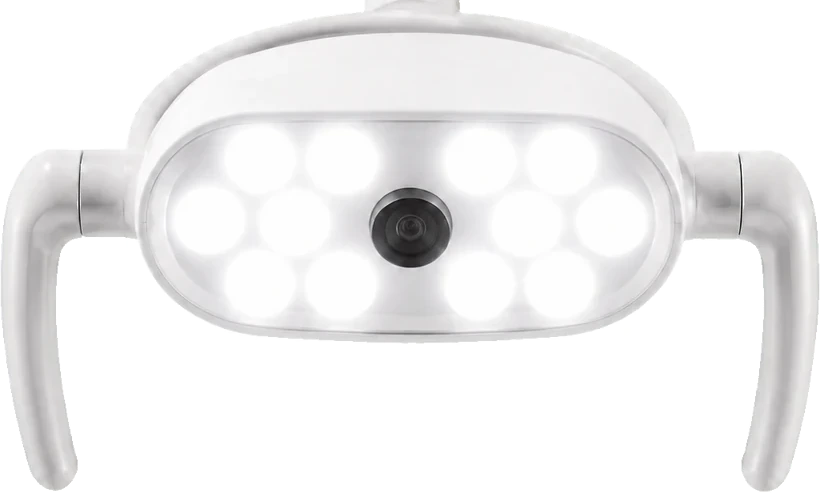
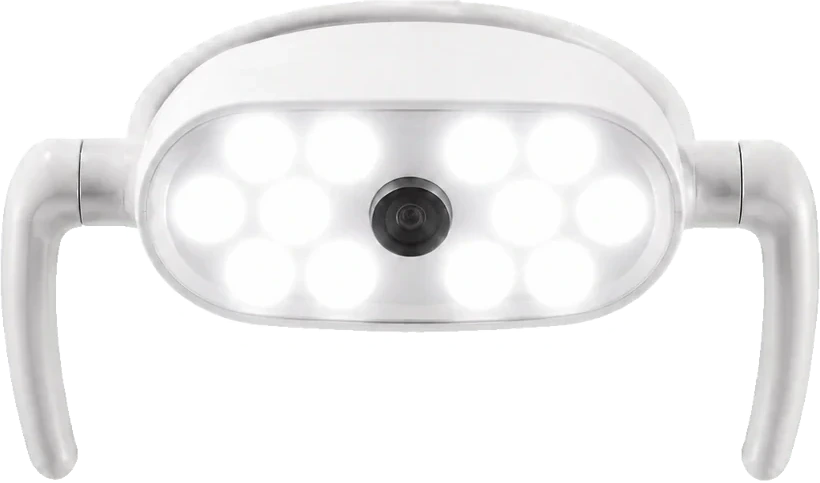
Игры: зона инструментов вдвое шире, порог 80 % с дозаполнением, примагничивание в лоток
Композит: радиус кисти 15 -> 30, зона отклика лампы и полировщика вдвое шире,
этап засчитывается с 80 %, остаток доводится заливкой. Лоток: инструмент
подрастает при захвате и сам встаёт в свободное место при отпускании рядом.
Лампа обрезана по штативу. Вступление: корпус растворяется до засвета,
дальше свет доводят градиенты — крупные перерисовки растра убраны.

Claude-Session: https://claude.ai/code/session_01Ui7H6U1Pji7C9dD6chSZKK

diff --git a/main.js b/main.js
@@ -142,7 +142,11 @@
          0.93–1.00  растворение, дальше первый экран
        Лампа увеличивается вокруг собственного центра и никуда не смещается.        */
     gsap.set(stage, { scale: 1, transformOrigin: '50% 50%' });
-    gsap.set(glow,  { xPercent: -50, yPercent: -50, scale: .55, opacity: 0 });
+    /* Ореол лежит внутри лампы, поэтому его собственный масштаб перемножался
+       с масштабом наезда — к концу выходила поверхность в десятки тысяч
+       пикселей, которую браузер растрировал заново каждый кадр. Рост ореолу
+       теперь даёт сама лампа, ему остаётся только яркость. */
+    gsap.set(glow,  { xPercent: -50, yPercent: -50, scale: 1, opacity: 0 });
     gsap.set(bloom, { xPercent: -50, yPercent: -50, scale: .18, opacity: 0 });
     gsap.set(on,    { opacity: 0 });
     gsap.set(flash, { opacity: 0 });
@@ -153,21 +157,25 @@
 
     const tl = gsap.timeline({ paused: true, defaults: { ease: 'none' } });
     tl.to(on,     { opacity: 1, duration: .07, ease: 'power1.inOut' }, 0)
-      .to(glow,   { opacity: .32, scale: .8, duration: .07, ease: 'power1.inOut' }, 0)
+      .to(glow,   { opacity: .32, duration: .07, ease: 'power1.inOut' }, 0)
       .to(slogan, { opacity: 0, y: -22, duration: .06, ease: 'power1.in' }, 0)
       .to(hint,   { opacity: 0, duration: .04, ease: 'power1.in' }, 0)
       /* приближение: свет расходится по кадру, а не только по корпусу лампы */
       .to(stage,  { scale: 1.45, duration: .31, ease: 'power1.inOut' }, .07)
-      .to(glow,   { opacity: .68, scale: 1.5, duration: .31, ease: 'power1.inOut' }, .07)
+      .to(glow,   { opacity: .68, duration: .31, ease: 'power1.inOut' }, .07)
       .to(bloom,  { opacity: .45, scale: .55, duration: .31, ease: 'power1.inOut' }, .07)
       .to(stage,  { scale: 2.8, duration: .14, ease: 'power1.in' }, .38)
-      .to(glow,   { opacity: 1, scale: 3.1, duration: .14, ease: 'power1.in' }, .38)
+      .to(glow,   { opacity: 1, duration: .14, ease: 'power1.in' }, .38)
       .to(bloom,  { opacity: .96, scale: 1.35, duration: .14, ease: 'power1.in' }, .38)
-      .to(stage,  { scale: 6.5, duration: .12, ease: 'power2.in' }, .52)
-      /* корпус растворяется в свете, иначе на весь кадр расползается серый пластик */
-      .to(stage,  { opacity: 0, duration: .09, ease: 'power1.in' }, .49)
-      .to(bloom,  { scale: 2.4, duration: .12, ease: 'power2.in' }, .52)
-      .to(flash,  { opacity: 1, duration: .06, ease: 'power2.in' }, .52)
+      /* Самый тяжёлый участок шкалы. Держим его коротким и заканчиваем всё
+         разом к 0.575: дальше кадр полностью залит белым и лампу с ореолом
+         снимает с отрисовки класс is-blank. */
+      /* Корпус растворяется в свете ДО того, как кадр зальёт белым: дальше
+         увеличивать растровую картинку не нужно — свет доводят градиенты,
+         которые рисуются несравнимо дешевле. */
+      .to(stage,  { opacity: 0, duration: .06, ease: 'power1.in' }, .46)
+      .to(bloom,  { scale: 2.2, duration: .07, ease: 'power2.in' }, .50)
+      .to(flash,  { opacity: 1, duration: .06, ease: 'power2.in' }, .50)
       /* слова: шире амплитуда, спокойнее выход */
       .to(words,  { opacity: 1, y: 0, scale: 1, duration: .075, stagger: .028, ease: 'power2.out' }, .53)
       .to(words,  { opacity: 0, y: -40, scale: .94, duration: .075, stagger: .028, ease: 'power2.in' }, .80)
@@ -184,7 +192,8 @@
       const open = pos > .985;
       box.classList.toggle('is-moving', pos > .004);
       /* кадр залит белым — лампу и сияние снимаем с отрисовки совсем */
-      box.classList.toggle('is-blank', pos > .60);
+      box.classList.toggle('is-lit', pos > .10);
+      box.classList.toggle('is-blank', pos > .525);
       html.classList.toggle('ready', open);
       if (hdrEl) hdrEl.classList.toggle('hdr--ghost', !open);
       box.style.pointerEvents = open ? 'none' : '';
@@ -452,6 +461,8 @@
     const ec = etchC.getContext('2d', { willReadFrequently: true });
     const pc = paintC.getContext('2d', { willReadFrequently: true });
 
+    /* сколько нужно покрыть, чтобы этап засчитался; дальше доводим сами */
+    const GOAL = .80;
     let stage = 1, W = 0, H = 0, done = 0, seen = 0, last = null, ops = 0, busy = false;
     let ptsEdge = [], ptsFull = [], imgEdge = null, imgFull = null;
     const bits = makeParticles($('#bits'), stageEl);
@@ -521,26 +532,57 @@
     }
     /* показываем прогресс, но НИКОГДА не переключаем этап во время мазка */
     function readout() {
-      if (stage === 1) say.textContent = 'Подготовка: ' + pc100(cover(ec, ptsEdge) / .82) + ' %';
-      else if (stage === 2) say.textContent = 'Промывание: ' + pc100(1 - cover(ec, ptsEdge) / .82) + ' %';
-      else if (stage === 3) { const v = cover(pc, ptsFull) / .99;
+      if (stage === 1) say.textContent = 'Подготовка: ' + pc100(cover(ec, ptsEdge) / GOAL) + ' %';
+      else if (stage === 2) say.textContent = 'Промывание: ' + pc100((1 - cover(ec, ptsEdge)) / GOAL) + ' %';
+      else if (stage === 3) { const v = cover(pc, ptsFull) / GOAL;
         say.textContent = 'Заполнено ' + pc100(v) + ' %' + (v >= 1 ? ' — теперь лампа' : ''); }
     }
     const pc100 = v => Math.round(Math.max(0, Math.min(1, v)) * 100);
+
+    /* Дозаполнение: как только пройдено 80 %, остаток доводим сами — ровно и
+       без выискивания последних пикселей. Кадр за кадром возвращаем снимок
+       холста и поверх кладём заливку с растущей прозрачностью, поэтому переход
+       идёт плавно и не зависит от частоты кадров. */
+    function flood(ctx, color, erase, cb) {
+      if (!W) { cb && cb(); return; }
+      busy = true; last = null;
+      const snap = document.createElement('canvas'); snap.width = W; snap.height = H;
+      snap.getContext('2d').drawImage(ctx.canvas, 0, 0);
+      gsap.to({ v: 0 }, { v: 1, duration: .5, ease: 'power2.inOut',
+        onUpdate() {
+          const v = this.targets()[0].v;
+          ctx.clearRect(0, 0, W, H); ctx.drawImage(snap, 0, 0);
+          ctx.save();
+          ctx.globalAlpha = v; ctx.globalCompositeOperation = erase ? 'destination-out' : 'source-over';
+          ctx.fillStyle = color; ctx.fillRect(0, 0, W, H);
+          ctx.restore();
+        },
+        onComplete() {
+          ctx.clearRect(0, 0, W, H);
+          if (!erase) { ctx.globalCompositeOperation = 'source-over'; ctx.fillStyle = color; ctx.fillRect(0, 0, W, H); }
+          busy = false; cb && cb();
+        } });
+    }
     /* переключаем этап только когда инструмент отпущен */
     function finishStroke() {
       if (busy) return;
-      if (stage === 1 && cover(ec, ptsEdge) > .82) setStage(2);
-      else if (stage === 2 && cover(ec, ptsEdge) < .12) setStage(3);
-      else if (stage === 3 && cover(pc, ptsFull) >= .99) setStage(4);
-      else readout();
+      if (stage === 1 && cover(ec, ptsEdge) >= GOAL) {
+        say.textContent = 'Край пройден — гель ложится ровным слоем.';
+        flood(ec, '#3FC3DC', false, () => setStage(2));
+      } else if (stage === 2 && cover(ec, ptsEdge) <= 1 - GOAL) {
+        say.textContent = 'Гель смывается начисто.';
+        flood(ec, '#000', true, () => setStage(3));
+      } else if (stage === 3 && cover(pc, ptsFull) >= GOAL) {
+        say.textContent = 'Дефект закрыт — композит расходится до краёв.';
+        flood(pc, '#EFA0C6', false, () => setStage(4));
+      } else readout();
     }
 
     /* ---- этапы ---- */
     const TXT = {
       1: 'Этап 1. Подготовка: синим шприцом пройдите по краю дефекта.',
       2: 'Этап 2. Промывание: смойте гель водой из пистолета.',
-      3: 'Этап 3. Композит: заполните дефект целиком, до 100 %.',
+      3: 'Этап 3. Композит: закрывайте дефект — с 80 % материал разойдётся до краёв сам.',
       4: 'Этап 4. Свет: поднесите лампу к зубу и держите, пока полоса не заполнится.',
       5: 'Этап 5. Полировка: пройдите щёткой по зубу — реставрация заблестит.'
     };
@@ -598,7 +640,7 @@
     function tipNear(t) {
       const r = t.el.getBoundingClientRect(), b = box.getBoundingClientRect();
       const x = r.left + r.width * t.tip[0], y = r.top + r.height * t.tip[1];
-      const pad = b.width * .18;
+      const pad = b.width * .36;
       return x > b.left - pad && x < b.right + pad && y > b.top - pad && y < b.bottom + pad;
     }
     function loop(t) {
@@ -613,7 +655,7 @@
     }
     function startCure() {
       if (raf || busy) return;
-      if (cover(pc, ptsFull) < .90) { crumble(); return; }   // меньше 90 % — реставрация срывается
+      if (cover(pc, ptsFull) < GOAL) { crumble(); return; }   // меньше 80 % — реставрация срывается
       tPrev = 0; fill.classList.add('is-arming'); raf = requestAnimationFrame(loop);
     }
     function stopCure() {
@@ -624,7 +666,7 @@
     }
     function finishCure() {
       cancelAnimationFrame(raf); raf = 0; lamp = null;
-      full = cover(pc, ptsFull) > .99;
+      full = cover(pc, ptsFull) > .95;
       fill.classList.remove('is-curing', 'is-arming');
       fill.classList.add('is-done'); TOOLS[3].el.classList.remove('is-lit', 'wiggle');
       /* зуб становится здоровым: свет размывает границы и проявляет целую коронку */
@@ -708,13 +750,13 @@
         onDrag() {
           if (t.k >= 4) return;
           const r = t.el.getBoundingClientRect();
-          work(r.left + r.width * t.tip[0], r.top + r.height * t.tip[1], 15);
+          work(r.left + r.width * t.tip[0], r.top + r.height * t.tip[1], 30);
         } });
     });
 
     /* ---- палец или курсор прямо по зубу ---- */
     let on = false;
-    const radFor = e => e.pointerType === 'touch' ? 22 : 16;
+    const radFor = e => e.pointerType === 'touch' ? 44 : 32;
     box.addEventListener('pointerdown', e => { if (stage !== 1 && stage !== 2 && stage !== 3 || busy) return; on = true; last = null; box.setPointerCapture(e.pointerId); work(e.clientX, e.clientY, radFor(e)); });
     box.addEventListener('pointermove', e => { if (on) work(e.clientX, e.clientY, radFor(e)); });
     ['pointerup', 'pointercancel'].forEach(ev => box.addEventListener(ev, () => { if (!on) return; on = false; last = null; finishStroke(); }));
@@ -771,9 +813,43 @@
     const o = new IntersectionObserver(es => { es.forEach(e => { if (!e.isIntersecting) return; o.disconnect();
       gsap.to(tools, { y: 0, opacity: 1, duration: 1, ease: 'power3.out', stagger: .12 }); }); }, { threshold: .3 });
     o.observe(stage);
+    /* Примагничивание: пять мест в лотке, инструмент сам встаёт в ближайшее
+       свободное, если отпущен где-то рядом. Ловить точку внутри рамки не нужно. */
+    const SLOT_X = [.20, .35, .50, .65, .80], SLOT_Y = .76;
+    const anchor = el => { const r = el.getBoundingClientRect();
+      return { x: r.left + r.width / 2, y: r.top + r.height * .62 }; };
+    const slotPoint = i => { const s = stage.getBoundingClientRect();
+      return { x: s.left + s.width * SLOT_X[i], y: s.top + s.height * SLOT_Y }; };
+    function nearTray(el) {
+      const s = stage.getBoundingClientRect(), a = anchor(el);
+      return (a.y - s.top) / s.height > .45;
+    }
+    function snap(el) {
+      const taken = new Set(tools.filter(t => t !== el && t.dataset.slot !== undefined).map(t => +t.dataset.slot));
+      const a = anchor(el);
+      let best = -1, bd = Infinity;
+      SLOT_X.forEach((_, i) => { if (taken.has(i)) return;
+        const p = slotPoint(i), d = Math.hypot(p.x - a.x, p.y - a.y);
+        if (d < bd) { bd = d; best = i; } });
+      if (best < 0) return false;
+      const p = slotPoint(best); el.dataset.slot = best;
+      gsap.to(el, { x: '+=' + (p.x - a.x), y: '+=' + (p.y - a.y), scale: 1,
+        duration: .5, ease: 'back.out(1.5)', onComplete: check });
+      return true;
+    }
     Draggable.create(tools, { type: 'x,y', bounds: stage, zIndexBoost: false, minimumMovement: 3,
-      onPress() { gsap.killTweensOf(this.target); this.target.classList.add('is-drag'); this.target.classList.remove('wiggle'); },
-      onRelease() { this.target.classList.remove('is-drag'); check(); } });
+      onPress() {
+        gsap.killTweensOf(this.target);
+        this.target.classList.add('is-drag'); this.target.classList.remove('wiggle');
+        delete this.target.dataset.slot;
+        gsap.to(this.target, { scale: 1.12, duration: .2, ease: 'power2.out' });
+      },
+      onRelease() {
+        const el = this.target; el.classList.remove('is-drag');
+        if (nearTray(el) && snap(el)) return;                 // масштаб вернёт сама анимация укладки
+        gsap.to(el, { scale: 1, duration: .3, ease: 'power2.out' });
+        check();
+      } });
   })();
 
   addEventListener('load', () => ScrollTrigger.refresh());

diff --git a/styles.css b/styles.css
@@ -103,9 +103,13 @@ body.nav-open .burger span::before{top:0;transform:rotate(45deg)}body.nav-open .
 .intro__stage{position:absolute;left:50%;top:50%;width:min(88vmin,660px);translate:-50% -50%;transform-origin:50% 42%;will-change:transform}
 .intro__lamp{position:relative;display:block;width:100%;padding:0;margin:0;border:0;background:none;cursor:pointer;-webkit-tap-highlight-color:transparent}
 .intro__lamp:focus-visible{outline:2px solid var(--navy);outline-offset:4px;border-radius:24px}
-.intro__off,.intro__on{width:100%;height:auto;display:block;filter:drop-shadow(0 26px 52px rgba(20,30,50,.10))}
-/* в движении фильтр снимаем: тень пересчитывается на каждом кадре и роняет плавность */
-.intro.is-moving .intro__off,.intro.is-moving .intro__on{filter:none}
+/* Тени на лампе нет намеренно: фильтр пришлось бы снимать при первом же
+   движении, а это перерисовка обеих картинок ровно в тот момент, когда
+   начинается анимация. Объём лампе даёт аура под ней. */
+.intro__off,.intro__on{width:100%;height:auto;display:block}
+/* Когда лампа разгорелась, погашенная копия полностью скрыта под горящей —
+   держать её в отрисовке незачем: при наезде это вторая картинка на пол-экрана. */
+.intro.is-lit .intro__off{visibility:hidden}
 /* после засвета лампу вообще не рисуем — она под белым и только жрёт кадры */
 .intro.is-blank .intro__stage,.intro.is-blank .intro__glow,.intro.is-blank .intro__bloom{visibility:hidden}
 .intro__on{position:absolute;inset:0;opacity:0;filter:none}
@@ -124,7 +128,7 @@ body.nav-open .burger span::before{top:0;transform:rotate(45deg)}body.nav-open .
   letter-spacing:.01em;text-shadow:0 1px 16px rgba(255,255,255,.95)}
 .intro__bloom{position:absolute;left:50%;top:50%;width:105vmax;aspect-ratio:1;translate:-50% -50%;border-radius:50%;pointer-events:none;opacity:0;z-index:4;
   background:radial-gradient(circle,rgba(255,255,255,1) 0%,rgba(255,254,251,.94) 18%,rgba(255,254,250,.82) 30%,rgba(255,253,247,.56) 44%,rgba(255,253,246,.26) 58%,rgba(255,255,255,0) 74%);will-change:transform,opacity}
-.intro__flash{position:absolute;inset:0;background:radial-gradient(70% 60% at 50% 44%,#fff 0%,#fff 62%,rgba(255,255,255,.94) 100%);opacity:0;pointer-events:none;z-index:6}
+.intro__flash{position:absolute;inset:0;background:radial-gradient(70% 60% at 50% 44%,#fff 0%,#fff 62%,rgba(255,255,255,.94) 100%);opacity:0;pointer-events:none;z-index:6;will-change:opacity}
 .intro__words{position:absolute;left:50%;top:50%;translate:-50% -50%;margin:0;z-index:7;pointer-events:none;
   display:flex;flex-wrap:wrap;justify-content:center;align-items:center;gap:clamp(14px,3.2vw,54px);width:min(94vw,1040px);text-align:center}
 .intro__words i{font-style:normal;font-family:var(--serif);font-size:clamp(19px,3vw,42px);line-height:1.1;color:var(--ink);

diff --git a/index.html b/index.html
@@ -50,8 +50,8 @@
         <span class="intro__glow" aria-hidden="true"></span>
         <span class="intro__aura" aria-hidden="true"></span>
         <button class="intro__lamp" id="intro-lamp" type="button" aria-label="Включить свет и перейти к сайту">
-          <img class="intro__off" src="assets/cut/lamp-off.webp" alt="" width="820" height="494" draggable="false">
-          <img class="intro__on" src="assets/cut/lamp-on.webp" alt="" width="820" height="493" draggable="false">
+          <img class="intro__off" src="assets/cut/lamp-off.webp" alt="" width="820" height="483" draggable="false">
+          <img class="intro__on" src="assets/cut/lamp-on.webp" alt="" width="820" height="483" draggable="false">
         </button>
       </div>
     </div>
